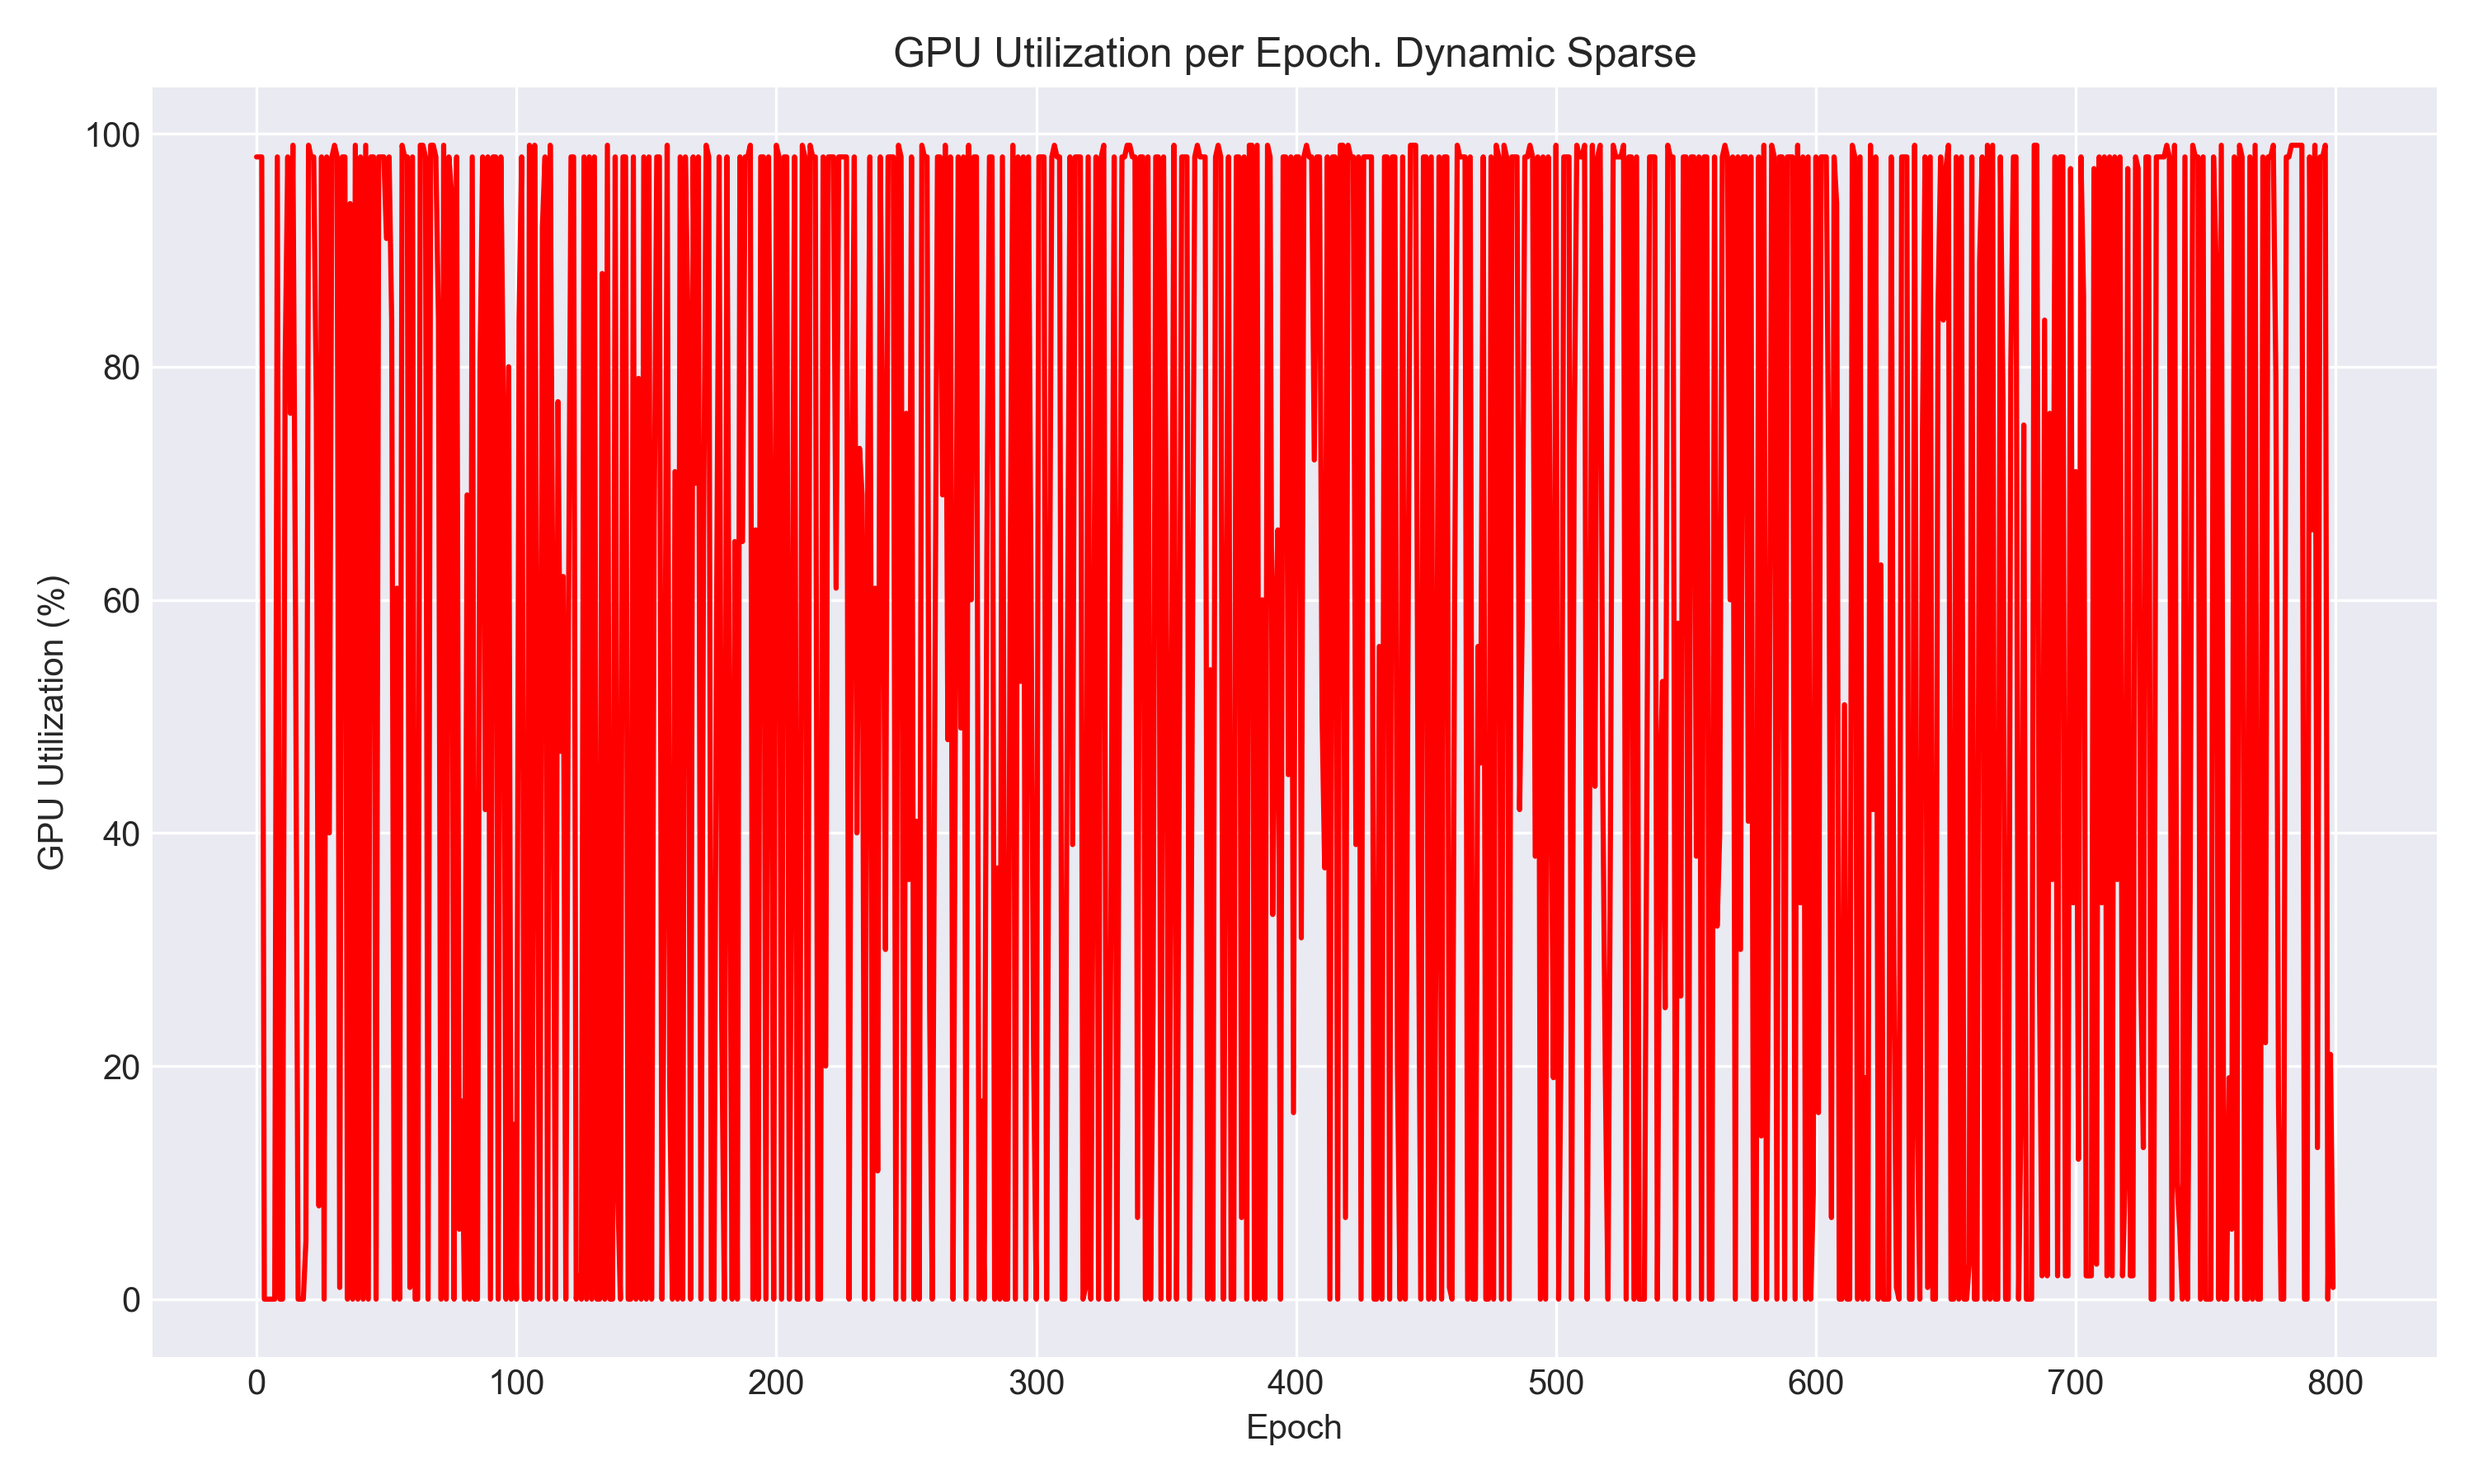
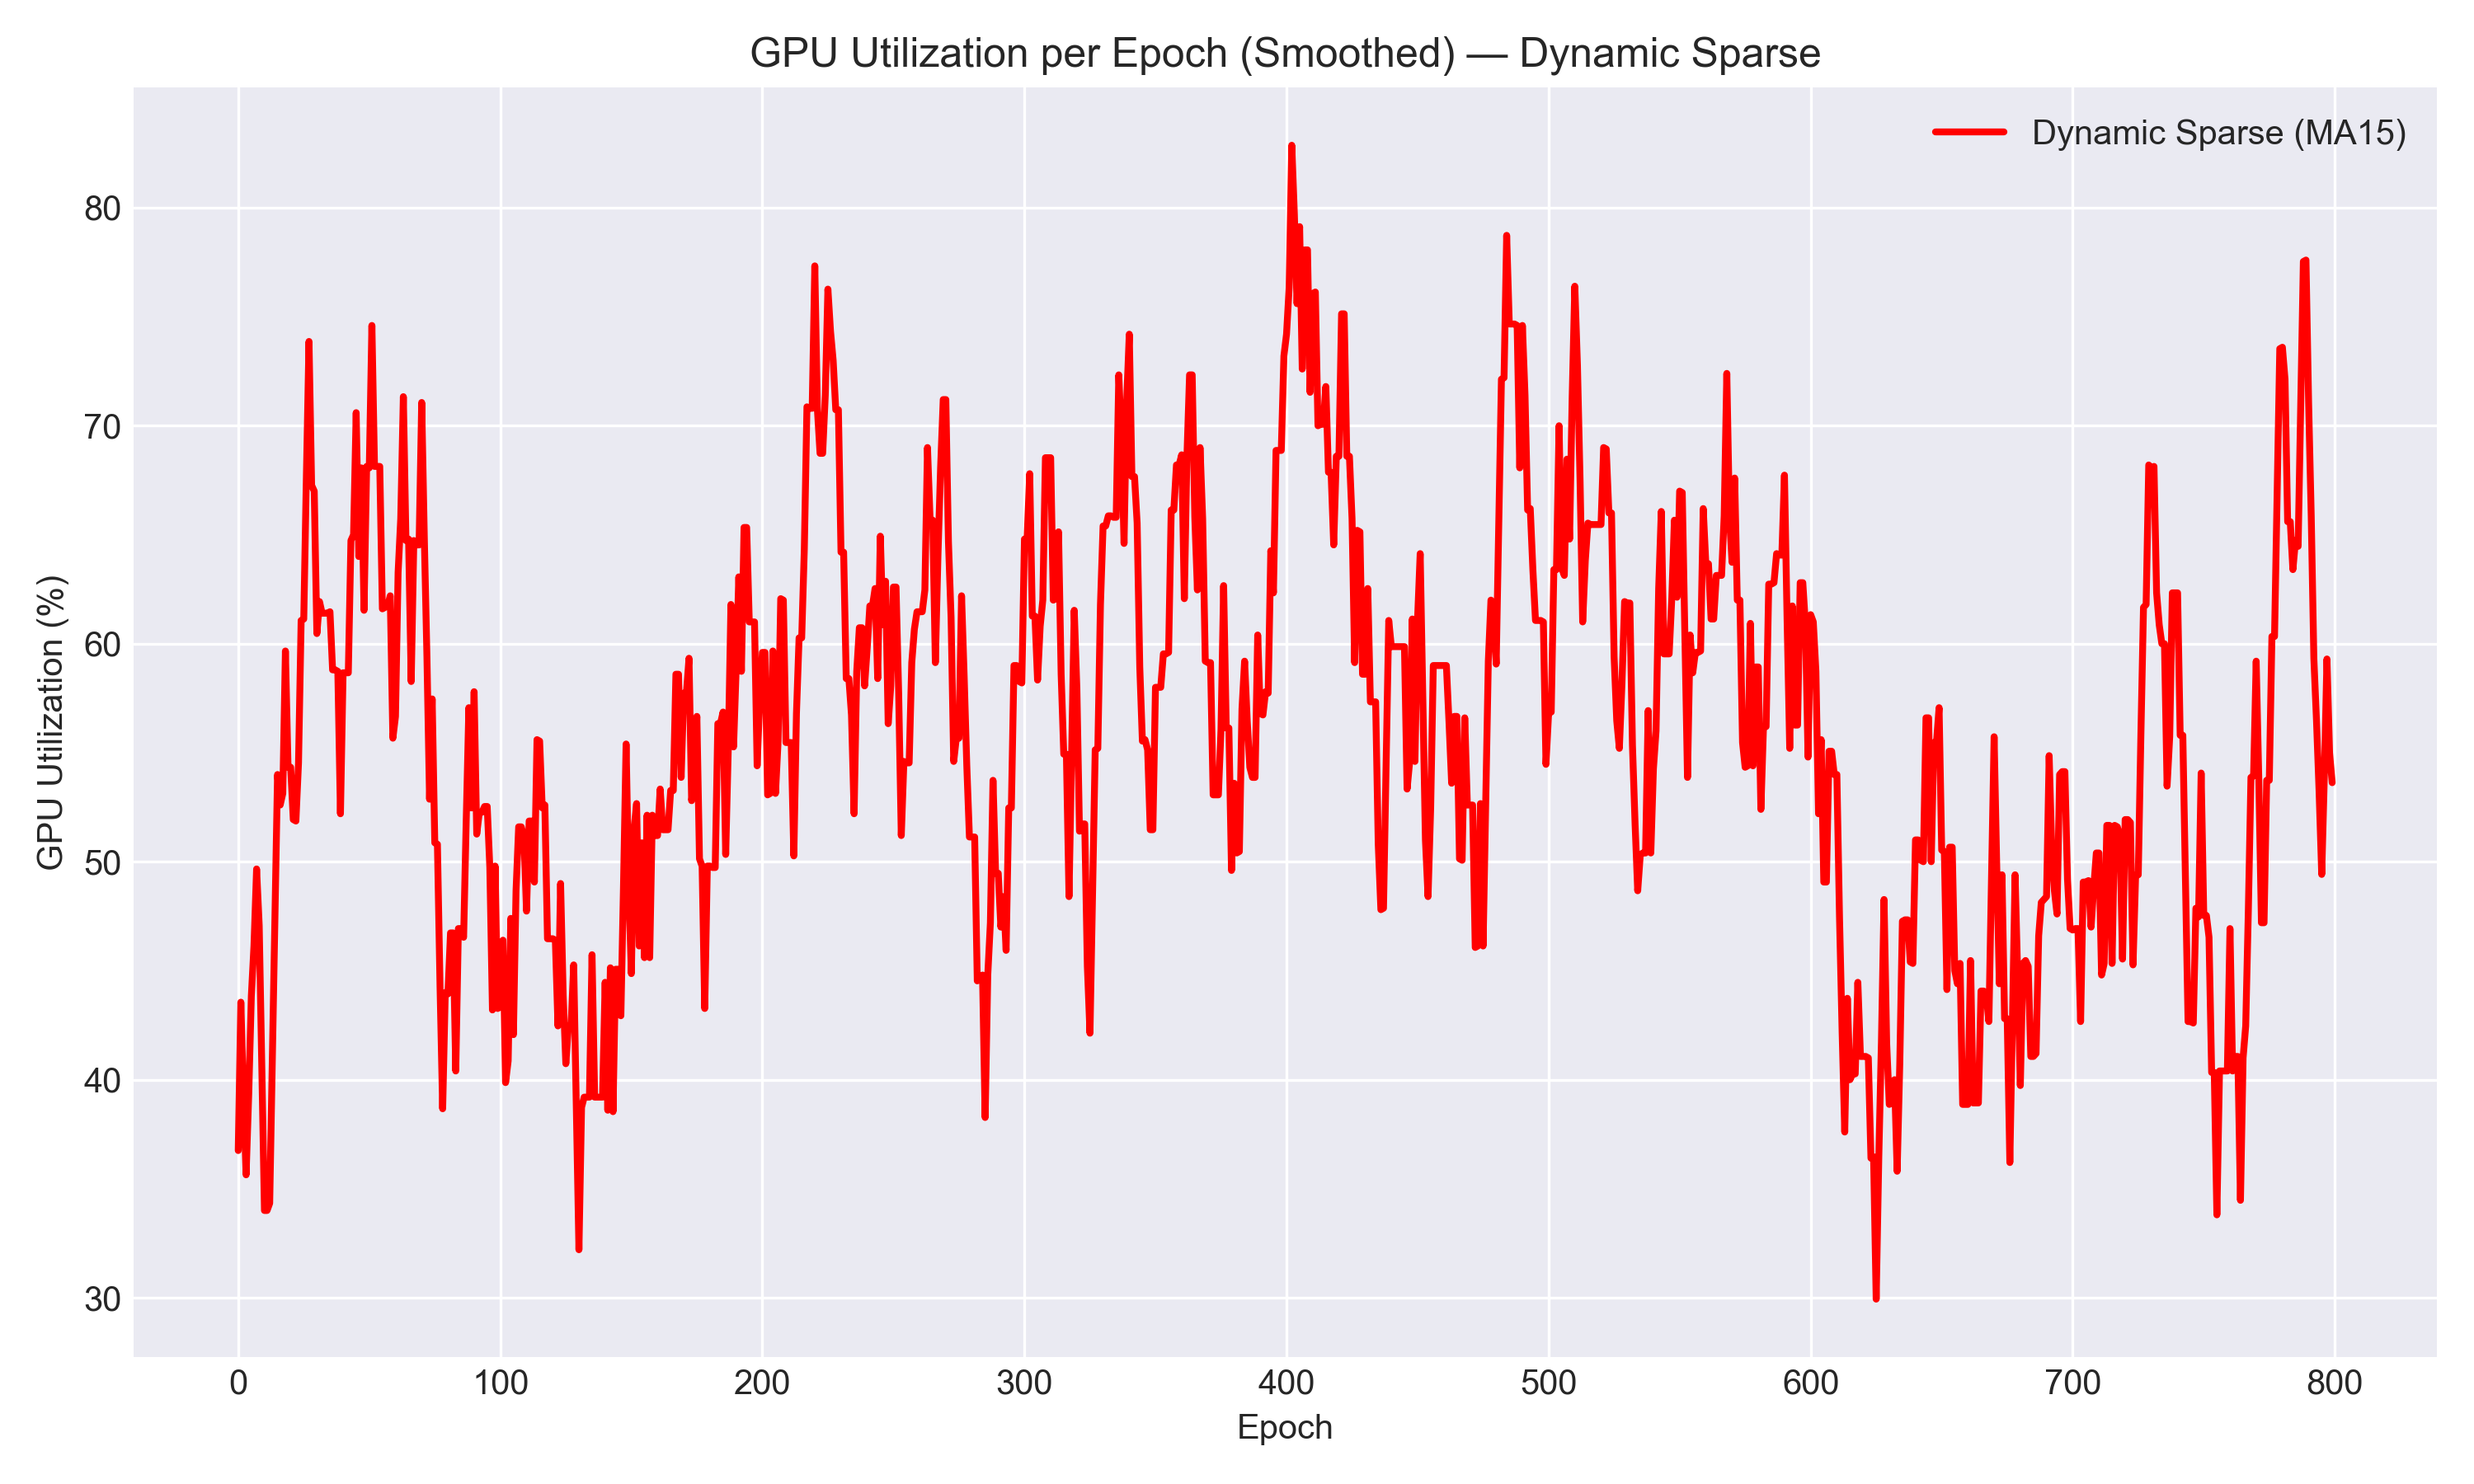
[CHANGED]: plots for gpu utilization

diff --git a/plots/make_plots.py b/plots/make_plots.py
@@ -267,15 +267,22 @@ plt.tight_layout()
 plt.savefig('plots/gpu_utilization_baseline.png', dpi=300)
 plt.close()
 
+import pandas as pd
+
+window = 15
+
 plt.figure(figsize=(10, 6))
 for i, (model_name, data) in enumerate(metrics_data.items()):
     if model_name == "Pruned":
         if 'gpu_utilization_percent' in data:
-            plt.plot(data['gpu_utilization_percent'], label=model_name, color=colors_diff[i])
+            gpu_util = pd.Series(data['gpu_utilization_percent'])
+            gpu_util_smooth = gpu_util.rolling(window, min_periods=1, center=True).mean()
+            plt.plot(gpu_util_smooth, label=f"{model_name} (MA{window})", color=colors_diff[i], linewidth=2)
 plt.xlabel('Epoch')
 plt.ylabel('GPU Utilization (%)')
-plt.title('GPU Utilization per Epoch. Pruned')
+plt.title('GPU Utilization per Epoch (Smoothed) — Pruned')
 plt.tight_layout()
+plt.legend()
 plt.savefig('plots/gpu_utilization_pruned.png', dpi=300)
 plt.close()
 
@@ -283,11 +290,14 @@ plt.figure(figsize=(10, 6))
 for i, (model_name, data) in enumerate(metrics_data.items()):
     if model_name == "Dynamic Sparse":
         if 'gpu_utilization_percent' in data:
-            plt.plot(data['gpu_utilization_percent'], label=model_name, color=colors_diff[i])
+            gpu_util = pd.Series(data['gpu_utilization_percent'])
+            gpu_util_smooth = gpu_util.rolling(window, min_periods=1, center=True).mean()
+            plt.plot(gpu_util_smooth, label=f"{model_name} (MA{window})", color=colors_diff[i], linewidth=2)
 plt.xlabel('Epoch')
 plt.ylabel('GPU Utilization (%)')
-plt.title('GPU Utilization per Epoch. Dynamic Sparse')
+plt.title('GPU Utilization per Epoch (Smoothed) — Dynamic Sparse')
 plt.tight_layout()
+plt.legend()
 plt.savefig('plots/gpu_utilization_dynamic_sparse.png', dpi=300)
 plt.close()
 
@@ -295,11 +305,14 @@ plt.figure(figsize=(10, 6))
 for i, (model_name, data) in enumerate(metrics_data.items()):
     if model_name == "Schedule Free SimCLR":
         if 'gpu_utilization_percent' in data:
-            plt.plot(data['gpu_utilization_percent'], label=model_name, color=colors_diff[i])
+            gpu_util = pd.Series(data['gpu_utilization_percent'])
+            gpu_util_smooth = gpu_util.rolling(window, min_periods=1, center=True).mean()
+            plt.plot(gpu_util_smooth, label=f"{model_name} (MA{window})", color=colors_diff[i], linewidth=2)
 plt.xlabel('Epoch')
 plt.ylabel('GPU Utilization (%)')
-plt.title('GPU Utilization per Epoch. Schedule Free SimCLR')
+plt.title('GPU Utilization per Epoch (Smoothed) — Schedule Free SimCLR')
 plt.tight_layout()
+plt.legend()
 plt.savefig('plots/gpu_utilization_schedule_free_simclr.png', dpi=300)
 plt.close()
 
@@ -307,11 +320,14 @@ plt.figure(figsize=(10, 6))
 for i, (model_name, data) in enumerate(metrics_data.items()):
     if model_name == "DCL":
         if 'gpu_utilization_percent' in data:
-            plt.plot(data['gpu_utilization_percent'], label=model_name, color=colors_diff[i])
+            gpu_util = pd.Series(data['gpu_utilization_percent'])
+            gpu_util_smooth = gpu_util.rolling(window, min_periods=1, center=True).mean()
+            plt.plot(gpu_util_smooth, label=f"{model_name} (MA{window})", color=colors_diff[i], linewidth=2)
 plt.xlabel('Epoch')
 plt.ylabel('GPU Utilization (%)')
-plt.title('GPU Utilization per Epoch. DCL')
+plt.title('GPU Utilization per Epoch (Smoothed) — DCL')
 plt.tight_layout()
+plt.legend()
 plt.savefig('plots/gpu_utilization_dcl.png', dpi=300)
 plt.close()
 
